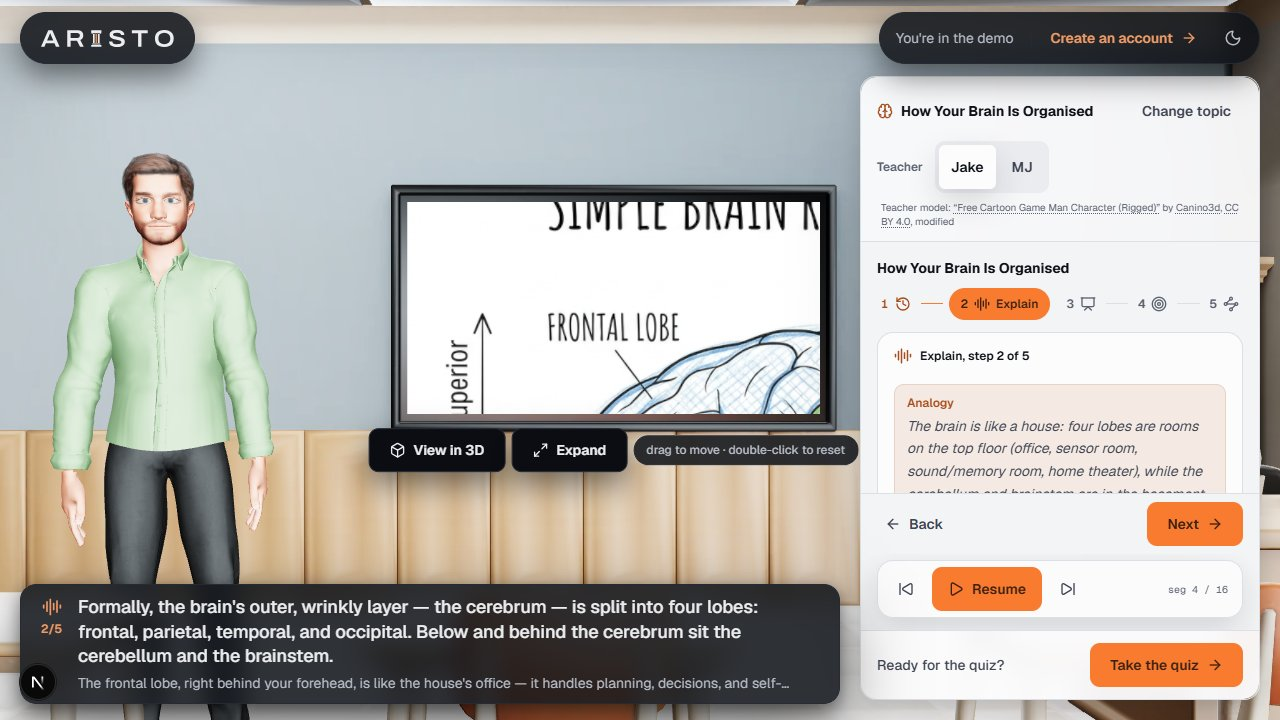
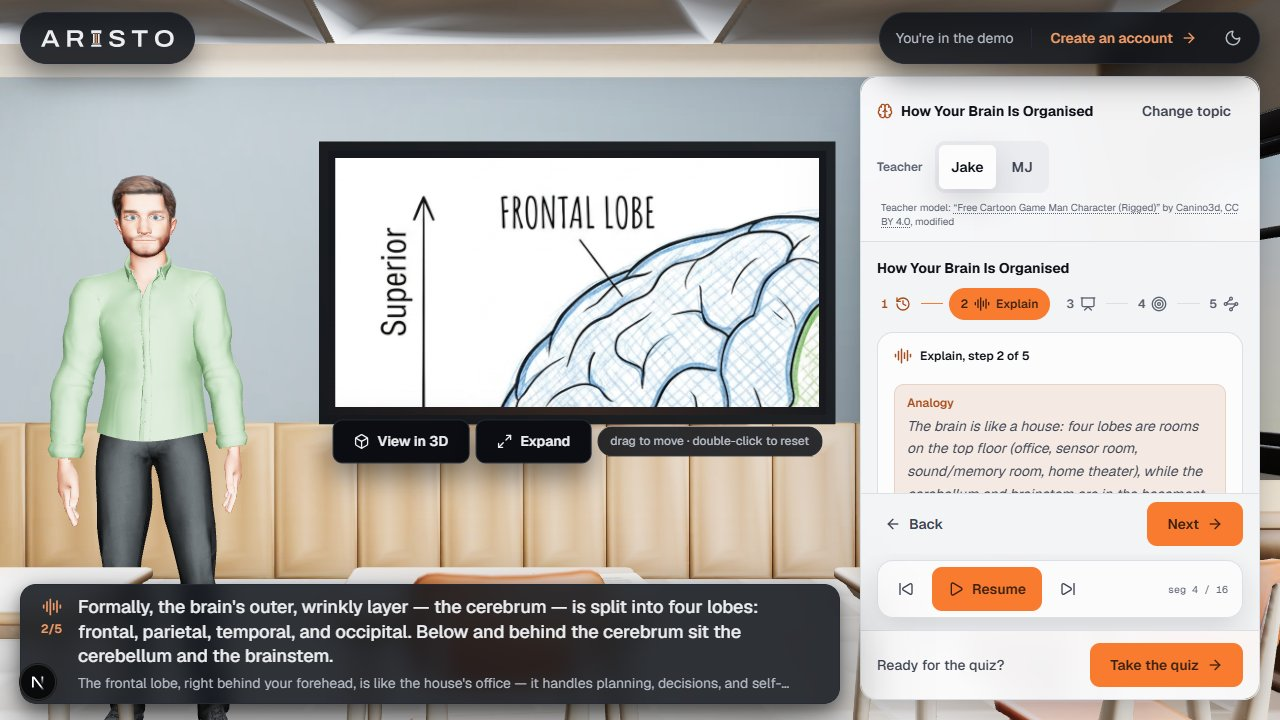
Draw the wall display 30% larger
The room config now says how big its screen is and the app draws it (matte bezel in the bake's colour, standby screen with its warm glow) over the baked one; same bottom edge, grown up and out, 0.2 m further from the teacher. The model's toolbar sits under the screen like the image's. The board is 869px wide at 1920 (was 671); 1440 now plays widgets on it.

diff --git a/src/components/three/Classroom.tsx b/src/components/three/Classroom.tsx
@@ -1,7 +1,7 @@
 "use client";
 
 import "./dracoDecoder";
-import { useEffect, useRef } from "react";
+import { useEffect, useMemo, useRef } from "react";
 import { useGLTF } from "@react-three/drei";
 import * as THREE from "three";
 import { useAristoStore } from "@/store/useAristoStore";
@@ -225,9 +225,10 @@ type Vec3 = [number, number, number];
 const ROOM_SHELL = {
   classroom: { position: [0.2, -1.7, -2] as Vec3, rotationY: 0, scale: 1 },
   board:     { position: [0.45, 0.382, -6] as Vec3 },
-  // The wall display's screen, measured from the GLB (.claude/eval/2026-10-15-placement/scripts/probe-display.cjs):
-  // x -1.059..1.867, y -0.421..1.132, face at z -5.565, facing the room (+z).
-  display:   { center: [0.404, 0.356, -5.565] as Vec3, width: 2.926, height: 1.553 },
+  // The wall display. The baked one (probe-display.cjs: screen x -1.059..1.867, y -0.421..1.132, bezel front at
+  // z -5.52) read small behind the teacher, so the app draws its own 30% larger (Hmz, 2026-10-15): same bottom edge
+  // on the panelling, grown up and out, 0.2 m further from the teacher, just in front of the baked one it covers.
+  display:   { center: [0.604, 0.589, -5.494] as Vec3, width: 3.804, height: 2.019, bezel: "#1C1E22" },
 };
 
 /**
@@ -235,9 +236,12 @@ const ROOM_SHELL = {
  * the camera frames it, so a new room only has to say where its screen is. The no-room view keeps the same spot.
  */
 export interface RoomDisplay {
+  /** The centre of the screen's face. */
   center: Vec3;
   width:  number;
   height: number;
+  /** The frame's colour; set when the app draws the display (WallDisplay) rather than the room's own mesh. */
+  bezel?: string;
 }
 
 export function roomDisplay(variant: ClassroomVariant): RoomDisplay {
@@ -266,9 +270,52 @@ const PLACEMENT: Record<ClassroomProps["variant"], {
   // not, so there is no DeskPaper here.
   alternative: {
     ...ROOM_SHELL,
+    // The evening bake's bezel (build_studio_room.py PALETTES.evening).
+    display:   { ...ROOM_SHELL.display, bezel: "#0F1114" },
     desk:      null,
   },
 };
+
+const BEZEL = 0.07;  // frame width around the screen, as on the baked one
+const SCREEN = "#15181E"; // the room build's standby screen (build_studio_room.py V85_screen)
+
+/**
+ * The display the teacher presents on, drawn by the app at the size the room config asks for: a dark frame and a
+ * screen in standby with the faint warm glow low in the middle that the baked one had. What is shown on it (the
+ * image, the widget) sits a hair in front of the face.
+ */
+function WallDisplay({ display }: { display: RoomDisplay }) {
+  const glow = useMemo(() => {
+    const c = document.createElement("canvas");
+    c.width = 256; c.height = 128;
+    const g = c.getContext("2d")!;
+    g.fillStyle = SCREEN;
+    g.fillRect(0, 0, 256, 128);
+    const r = g.createRadialGradient(128, 128, 4, 128, 128, 150);
+    r.addColorStop(0, "rgba(120, 72, 44, 0.32)");
+    r.addColorStop(1, "rgba(120, 72, 44, 0)");
+    g.fillStyle = r;
+    g.fillRect(0, 0, 256, 128);
+    const t = new THREE.CanvasTexture(c);
+    t.colorSpace = THREE.SRGBColorSpace;
+    return t;
+  }, []);
+  useEffect(() => () => glow.dispose(), [glow]);
+  const [cx, cy, cz] = display.center;
+  return (
+    <group position={[cx, cy, cz]}>
+      <mesh position={[0, 0, -0.022]}>
+        <boxGeometry args={[display.width + 2 * BEZEL, display.height + 2 * BEZEL, 0.04]} />
+        {/* Matte, with little of the studio reflection: the baked bezel around it reads near-black. */}
+        <meshStandardMaterial color={display.bezel} roughness={0.7} metalness={0} envMapIntensity={0.15} />
+      </mesh>
+      <mesh position={[0, 0, -0.001]}>
+        <planeGeometry args={[display.width, display.height]} />
+        <meshBasicMaterial map={glow} toneMapped={false} />
+      </mesh>
+    </group>
+  );
+}
 
 export function Classroom({ variant }: ClassroomProps) {
   const glbPath = `/models/classroom_${variant}.glb`;
@@ -291,6 +338,8 @@ export function Classroom({ variant }: ClassroomProps) {
       />
 
       <Blackboard position={cfg.board.position} />
+
+      {cfg.display.bezel && <WallDisplay display={cfg.display} />}
 
       {!activeQuiz && cfg.desk && (
         <DeskPaper

diff --git a/src/components/three/Experience.tsx b/src/components/three/Experience.tsx
@@ -306,10 +306,11 @@ function TeachingImageInner({ imageUrl, display }: { imageUrl: string; display: 
   );
 }
 
-function ModelToolbar() {
+// Under the screen, where the image's toolbar sits, so switching between the two never moves the control.
+function ModelToolbar({ display }: { display: RoomDisplay }) {
   const setViewMode3d = useAristoStore((s) => s.setViewMode3d);
   return (
-    <Html position={[MODEL_X, MODEL_Y - 0.86, MODEL_Z]} center>
+    <Html position={[display.center[0], display.center[1] - (display.height / 2 + 0.2), display.center[2] + 0.012]} center>
       <div className="theme-ink">
         <Button variant="secondary" onClick={() => setViewMode3d(false)} className={SCENE_BUTTON}>
           <ImageIcon aria-hidden />
@@ -602,7 +603,7 @@ export function Experience({ devOverrides }: { devOverrides?: DevOverrides } = {
         >
           <Suspense fallback={null}>
             <FloatingModel modelUrl={activeModelUrl!} modelAnnotations={lesson?.metadata.model_annotations} focusLabels={focusLabels} />
-            <ModelToolbar />
+            <ModelToolbar display={display} />
           </Suspense>
         </ModelErrorBoundary>
       ) : showImage ? (
